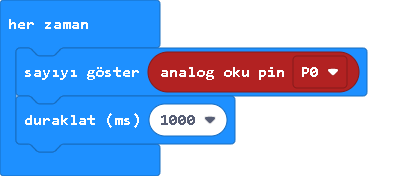
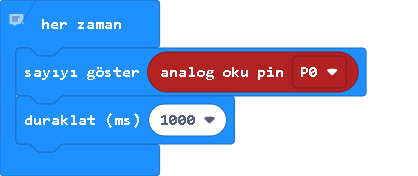
Update pxt.json, main.blocks, main.ts, main.py

diff --git a/main.ts b/main.ts
@@ -1,4 +1,6 @@
-basic.forever(function () {
+//  Created by: Batuhan Durhan
+//  Created at: October 11 2020 
+basic.forever(function on_forever() {
     basic.showNumber(pins.analogReadPin(AnalogPin.P0))
     basic.pause(1000)
 })

diff --git a/main.py b/main.py
@@ -1,0 +1,7 @@
+# Created by: Batuhan Durhan
+# Created at: October 11 2020 
+
+def on_forever():
+    basic.show_number(pins.analog_read_pin(AnalogPin.P0))
+    basic.pause(1000)
+basic.forever(on_forever)
